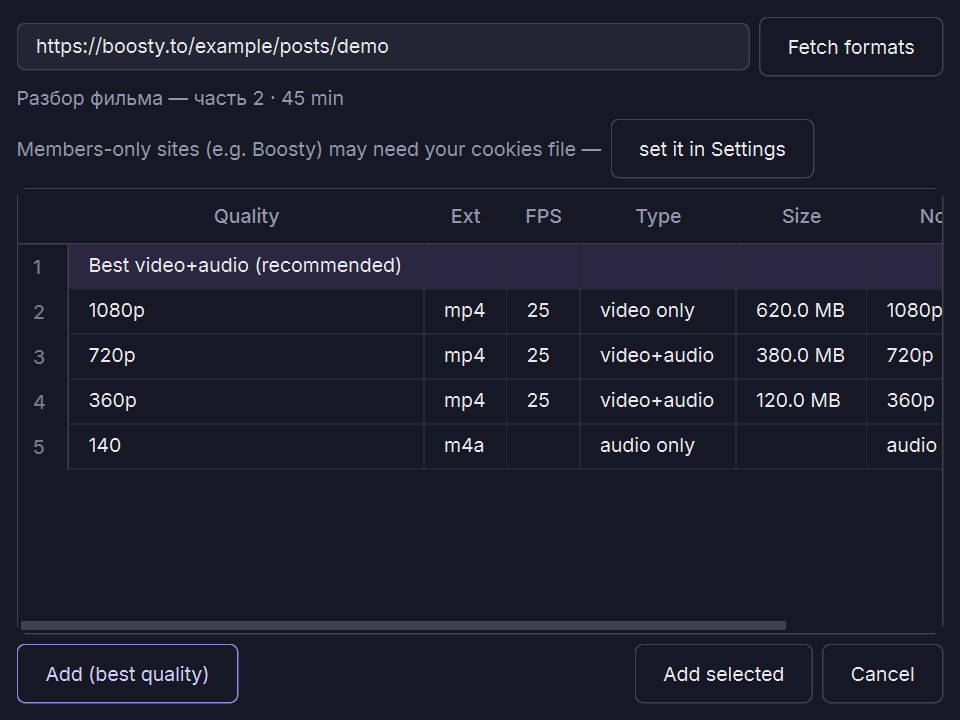
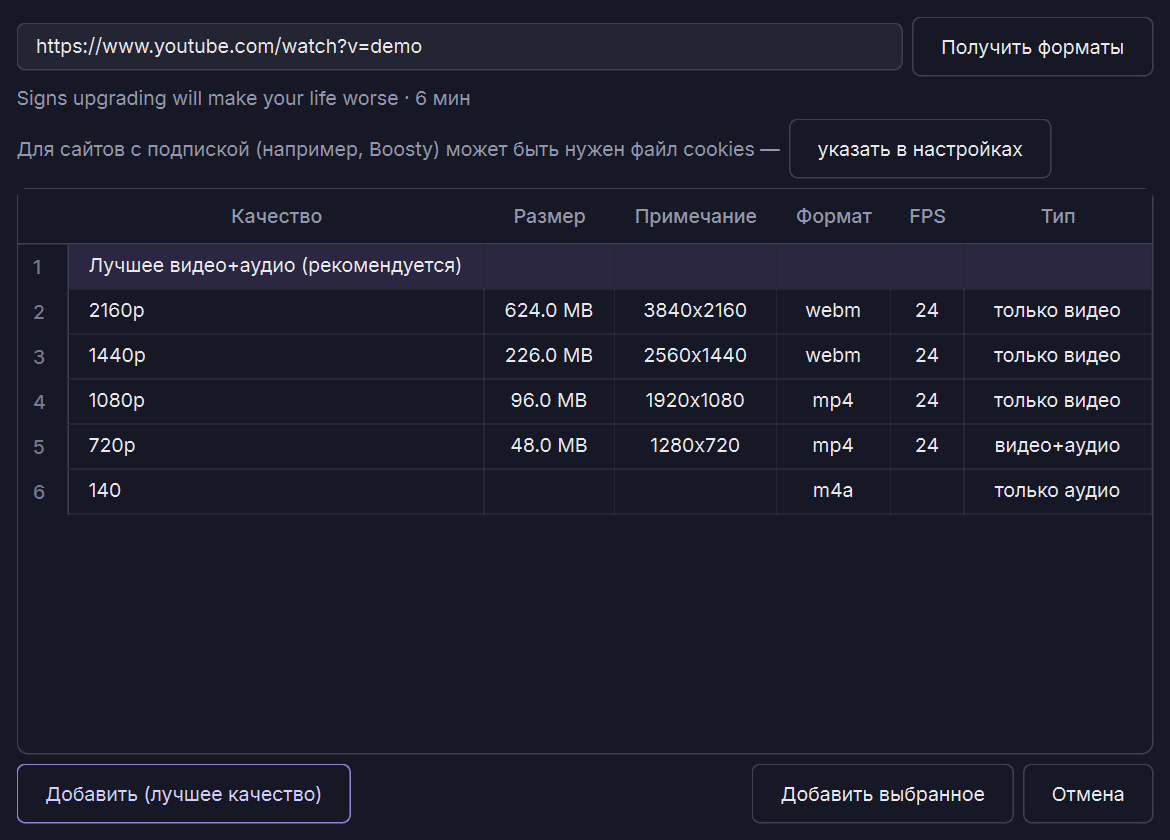
Add URL dialog polish + toolbar ellipsis removal
Dialog opens at 780x560 (min 720) so all columns fit; column order is
Quality / Size / Note / Ext / FPS / Type; quality reads as 2160p with
the raw WxH moved to the note column; non-quality cells are centered;
Cancel and the Type values are translated; duration shows RU units.
Toolbar buttons lose their trailing ellipsis in both languages.

diff --git a/wordmute_app/ui/main_window.py b/wordmute_app/ui/main_window.py
@@ -140,16 +140,16 @@ class MainWindow(QMainWindow):
 
         # --- file queue
         file_buttons = QHBoxLayout()
-        self.add_button = QPushButton(tr("Add Files…"))
+        self.add_button = QPushButton(tr("Add Files"))
         self.add_button.clicked.connect(self._pick_files)
-        self.add_folder_button = QPushButton(tr("Add Folder…"))
+        self.add_folder_button = QPushButton(tr("Add Folder"))
         self.add_folder_button.clicked.connect(self._pick_folder)
         # lambda: clicked(checked) must not leak its bool into url=
-        self.add_url_button = QPushButton(tr("Add URL…"))
+        self.add_url_button = QPushButton(tr("Add URL"))
         self.add_url_button.clicked.connect(lambda: self._add_url())
         self.remove_button = QPushButton(tr("Remove Selected"))
         self.remove_button.clicked.connect(self._remove_selected)
-        self.review_button = QPushButton(tr("Review…"))
+        self.review_button = QPushButton(tr("Review"))
         self.review_button.setToolTip(
             tr("Open a review file (saved next to each processed output) "
                "to listen to muted moments and un-mute false positives."))
@@ -161,12 +161,12 @@ class MainWindow(QMainWindow):
         file_buttons.addWidget(self.add_url_button)
         file_buttons.addSpacing(16)
         file_buttons.addWidget(self.remove_button)
-        self.gigaam_setup_button = QPushButton(tr("GigaAM Setup…"))
+        self.gigaam_setup_button = QPushButton(tr("GigaAM Setup"))
         self.gigaam_setup_button.setToolTip(
             tr("One-time Hugging Face setup required for GigaAM passes. "
                "Whisper works without any of this."))
         self.gigaam_setup_button.clicked.connect(self._open_gigaam_setup)
-        self.watch_button = QPushButton(tr("Watch Folder…"))
+        self.watch_button = QPushButton(tr("Watch Folder"))
         self.watch_button.setToolTip(
             tr("Automatically queue and process new media files appearing "
                "in a chosen folder."))
@@ -215,7 +215,7 @@ class MainWindow(QMainWindow):
         empty_layout.addWidget(empty_body)
         empty_buttons = QHBoxLayout()
         empty_buttons.addStretch()
-        empty_add = QPushButton(tr("Add Files…"))
+        empty_add = QPushButton(tr("Add Files"))
         empty_add.setProperty("primary", True)
         empty_add.clicked.connect(self._pick_files)
         empty_view_lists = QPushButton(tr("View word lists"))
@@ -409,7 +409,7 @@ class MainWindow(QMainWindow):
             self._watch_timer.stop()
             self._watch_dir = None
             self._watch_seen = {}
-            self.watch_button.setText(tr("Watch Folder…"))
+            self.watch_button.setText(tr("Watch Folder"))
             self.status_label.setText(tr("Ready."))
             return
         d = QFileDialog.getExistingDirectory(
@@ -556,7 +556,7 @@ class MainWindow(QMainWindow):
         act_show = menu.addAction(tr("Show output in folder"))
         act_show.setEnabled(out_ok)
         rev = self._review_path_for_row(row)
-        act_review = menu.addAction(tr("Review…"))
+        act_review = menu.addAction(tr("Review"))
         act_review.setEnabled(bool(rev and Path(rev).exists()))
         chosen = menu.exec(self.table.viewport().mapToGlobal(pos))
         if chosen is act_open:
@@ -623,12 +623,12 @@ class MainWindow(QMainWindow):
         warnings = gpu.plan_warnings(plan, s["device"], self._gpus)
         if "gigaam" in engines and not self._gigaam_installed():
             warnings.append(
-                "GigaAM support is not installed in this build — GigaAM "
-                "passes will fail. Use Whisper passes instead.")
+                tr("GigaAM support is not installed in this build — "
+                   "GigaAM passes will fail. Use Whisper passes instead."))
         elif "gigaam" in engines and not self._gigaam_ready():
             warnings.append(
-                "GigaAM passes need a one-time Hugging Face setup — "
-                "click 'GigaAM Setup…'.")
+                tr("GigaAM passes need a one-time Hugging Face setup — "
+                   "click 'GigaAM Setup'."))
         return warnings
 
     def _refresh_warnings(self):

diff --git a/wordmute_app/ui/url_dialog.py b/wordmute_app/ui/url_dialog.py
@@ -45,12 +45,13 @@ class FormatListWorker(QThread):
 
 
 class AddUrlDialog(QDialog):
-    COLUMNS = ["Quality", "Ext", "FPS", "Type", "Size", "Note"]
+    COLUMNS = ["Quality", "Size", "Note", "Ext", "FPS", "Type"]
 
     def __init__(self, parent=None, url: str = "", cookies=None):
         super().__init__(parent)
         self.setWindowTitle(tr("Add URL"))
-        self.resize(640, 480)
+        self.resize(780, 560)
+        self.setMinimumWidth(720)
         self._info = None
         self._use_best = False
         self._cookies = cookies
@@ -109,6 +110,7 @@ class AddUrlDialog(QDialog):
         self.buttons = QDialogButtonBox(
             QDialogButtonBox.Ok | QDialogButtonBox.Cancel)
         self.buttons.button(QDialogButtonBox.Ok).setText(tr("Add selected"))
+        self.buttons.button(QDialogButtonBox.Cancel).setText(tr("Cancel"))
         self.buttons.accepted.connect(self.accept)
         self.buttons.rejected.connect(self.reject)
         buttons_row.addWidget(self.buttons)
@@ -141,7 +143,8 @@ class AddUrlDialog(QDialog):
         self._info = info
         self.fetch_button.setEnabled(True)
         duration = info.get("duration")
-        extra = f" · {int(duration // 60)} min" if duration else ""
+        extra = (f" · {int(duration // 60)} {tr('min')}" if duration
+                 else "")
         self.status.setText(f"{info['title']}{extra}")
         self.table.setRowCount(0)
         self._add_row([tr("Best video+audio (recommended)"),
@@ -149,9 +152,9 @@ class AddUrlDialog(QDialog):
         for f in info["formats"]:
             d = downloader.describe_format(f)
             self._add_row(
-                [d["resolution"] or d["id"], d["ext"],
-                 str(int(d["fps"])) if d["fps"] else "",
-                 d["kind"], d["size"], d["note"]],
+                [d["resolution"] or d["id"], d["size"], d["note"],
+                 d["ext"], str(int(d["fps"])) if d["fps"] else "",
+                 tr(d["kind"])],
                 f)
         self.table.selectRow(0)
         self._update_ok()
@@ -163,6 +166,8 @@ class AddUrlDialog(QDialog):
             item = QTableWidgetItem(text)
             if col == 0:
                 item.setData(Qt.UserRole, fmt)
+            else:
+                item.setTextAlignment(Qt.AlignCenter)
             self.table.setItem(row, col, item)
 
     def _on_fetch_error(self, message: str):

diff --git a/wordmute_app/ui/i18n.py b/wordmute_app/ui/i18n.py
@@ -25,13 +25,11 @@ def tr(text: str) -> str:
 
 RU = {
     # main window
-    "Add Files…": "Добавить файлы…",
-    "Add Folder…": "Добавить папку…",
-    "Add URL…": "Добавить ссылку…",
+    "Add Files": "Добавить файлы",
+    "Add Folder": "Добавить папку",
     "Remove Selected": "Убрать выбранное",
-    "Review…": "Проверка…",
-    "Settings…": "Настройки…",
-    "GigaAM Setup…": "Настройка GigaAM…",
+    "GigaAM Setup": "Настройка GigaAM",
+    "Watch Folder": "Следить за папкой",
     "File": "Файл",
     "Duration": "Длительность",
     "Status": "Статус",
@@ -60,8 +58,15 @@ RU = {
     "cancelled": "отменено",
     "Cancelling…": "Отмена…",
     "Tools": "Инструменты",
-    "Watch Folder…": "Следить за папкой…",
     "Stop Watching": "Перестать следить",
+    "GigaAM passes need a one-time Hugging Face setup — "
+    "click 'GigaAM Setup'.":
+        "Проходам GigaAM нужна разовая настройка Hugging Face — "
+        "нажмите «Настройка GigaAM».",
+    "GigaAM support is not installed in this build — GigaAM "
+    "passes will fail. Use Whisper passes instead.":
+        "Поддержка GigaAM не установлена в этой сборке — проходы "
+        "GigaAM не сработают. Используйте проходы Whisper.",
     # tabs
     "Queue": "Очередь",
     "Word Lists": "Списки слов",
@@ -226,6 +231,9 @@ RU = {
     "Ext": "Формат",
     "Type": "Тип",
     "Note": "Примечание",
+    "video+audio": "видео+аудио",
+    "video only": "только видео",
+    "audio only": "только аудио",
     # review dialog
     "Review": "Проверка",
     "Source": "Источник",

diff --git a/wordmute_app/core/downloader.py b/wordmute_app/core/downloader.py
@@ -89,13 +89,17 @@ def fmt_size(n) -> str:
 
 def describe_format(f) -> dict:
     height = f.get("height")
-    resolution = f.get("resolution") or (f"{height}p" if height else "")
+    width = f.get("width")
+    # quality reads as "2160p"; the raw WxH moves to the note column
+    resolution = f"{height}p" if height else ""
+    raw = f.get("resolution") or (f"{width}x{height}"
+                                  if width and height else "")
     return {
         "id": str(f.get("format_id", "")),
         "ext": f.get("ext") or "",
         "resolution": resolution,
         "fps": f.get("fps"),
-        "note": f.get("format_note") or "",
+        "note": raw,
         "size": fmt_size(f.get("filesize") or f.get("filesize_approx")),
         "kind": format_kind(f),
     }
